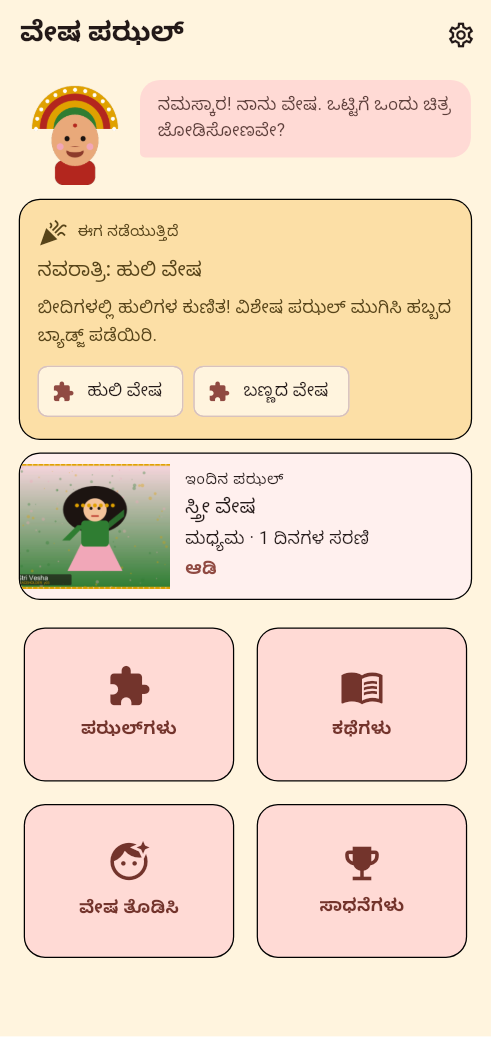
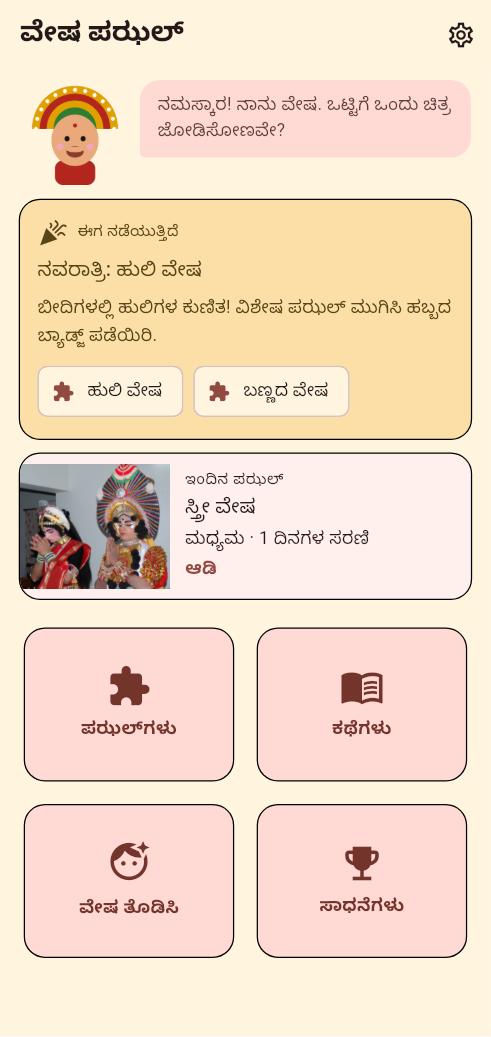
Vesha Puzzles: screenshots with Commons photos; README on photo and AI tools
Claude-Session: https://claude.ai/code/session_01BmsPKYNYcr4iKf22Sm33sF

Changed region(s): [[0.0305, 0.432, 0.3666, 0.5863]]

diff --git a/vesha_puzzles/README.md b/vesha_puzzles/README.md
@@ -11,8 +11,11 @@ tracking; English, Kannada and Tulu (Kannada script).
 <img src="docs/screenshots/en_5_dressup.png" width="200">
 </p>
 
-> **All art and sound in this release are generated placeholders.** The
-> list of real art to commission is in [docs/ART_GUIDE.md](docs/ART_GUIDE.md);
+> **Puzzle pictures are freely licensed photos from Wikimedia Commons**
+> (credited in the app; fetched with `tool/fetch_photos.dart`). Dress-up
+> layers, the guide and sounds are still generated placeholders; AI
+> versions can be made with `tool/gen_ai_images.dart` (needs a Gemini API
+> key). The art to commission is in [docs/ART_GUIDE.md](docs/ART_GUIDE.md);
 > stories and cultural notes await expert review — see
 > [docs/CONTENT_TO_REVIEW.md](docs/CONTENT_TO_REVIEW.md).
 
@@ -92,6 +95,8 @@ its `images/`) under `assets:` in `pubspec.yaml`.
 | Command | What it does |
 |---|---|
 | `dart run tool/gen_placeholders.dart` | Regenerates every placeholder picture, layer, guide image, launcher icon and sound. |
+| `dart run tool/fetch_photos.dart` | Replaces puzzle pictures with CC/PD photos from Wikimedia Commons (licence checked) and writes credits (also run by `.github/workflows/vesha-photos.yml`). |
+| `GEMINI_API_KEY=… dart run tool/gen_ai_images.dart` | Generates puzzle pictures and guide portraits with Imagen (also `.github/workflows/vesha-ai-images.yml`). |
 | `dart run tool/gen_review_doc.dart` | Rebuilds `docs/CONTENT_TO_REVIEW.md` from the content JSON and Tulu strings. |
 | `flutter test tool/screenshots/screenshot_test.dart` | Renders screenshots to `docs/screenshots/` (needs `fonts-noto-core`). |
 
